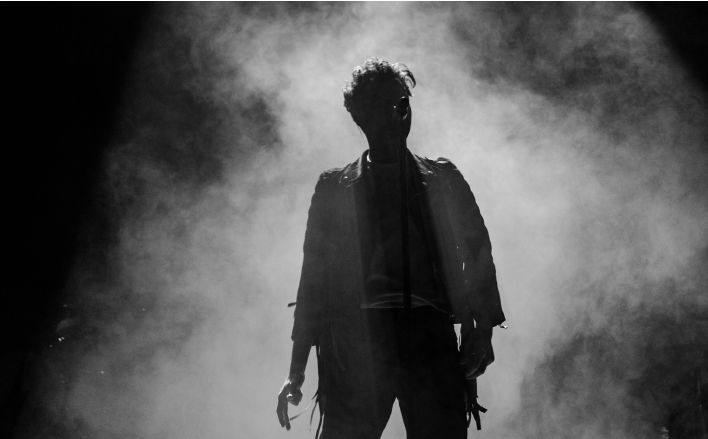
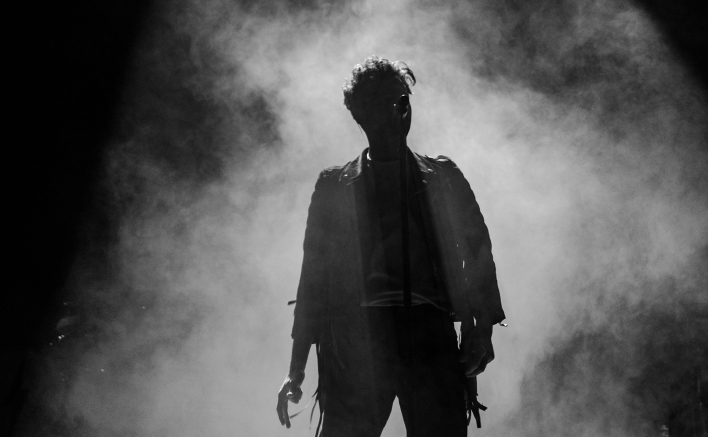
Adding an adaptive layout for the About block

diff --git a/src/styles/blocks/about.less b/src/styles/blocks/about.less
@@ -17,11 +17,7 @@
       font-size: 34px;
     }
 
-    @media @bw920 {
-      font-size: 30px;
-    }
-
-    @media @bw800 {
+    @media @bw960 {
       font-size: 26px;
     }
 
@@ -40,16 +36,16 @@
     width: 100%;
     font-size: 18px;
 
-    @media @bw800 {
+    @media @bw960 {
       font-size: 16px;
     }
 
     &--mt50 {
       margin-top: 50px;
-      max-width: 64.993%;
+      max-width: 867px;
 
       @media @bw1660 {
-        max-width: 827px;
+       max-width: 65.635%;
       }
 
       @media @bw1340 {
@@ -69,46 +65,46 @@
         margin-bottom: 88px;
       }
 
-      @media @bw1020 {
+      @media @bw960 {
+        //width: 280px;
         width: 39.548%;
       }
 
       @media @bw768 {
         margin-bottom: 30px;
       }
+
+      @media @bw650 {
+        width: 100%;
+      }
     }
   }
 
   &__second-block {
     display: grid;
-    grid-template-columns: 467px auto 60px 30.285%;
+    grid-template-columns: 35% 30.217% auto 30.285%;
     grid-template-rows: auto auto 100px auto 50px auto;
     margin: 100px 0 110px 0;
 
     @media @bw1660 {
-      grid-template-columns: 433px auto 39px 31.19%;
+      grid-template-columns: 34.365% 31.349% auto 31.19%;
       grid-template-rows: auto auto 100px auto 94px auto;
       margin-bottom: 87px;
     }
 
     @media @bw1340 {
+      grid-template-columns: 10% 55.707% auto 31.19%;
       margin: 80px 0 52px 0;
     }
 
-    @media @bw1100 {
-      grid-template-columns: 10% auto 39px 31.19%;
-      grid-template-rows: auto auto 52px auto 52px auto;
-    }
-
-    @media @bw800 {
-      grid-template-columns: auto 27px 37%;
-      grid-template-rows: auto 52px 28px auto 41px auto;
+    @media @bw960 {
+      grid-template-columns: 59.182% auto 37%;
+      grid-template-rows: auto 52px 28px auto 41px auto 28px;
     }
 
     @media @bw720 {
-      grid-template-columns: auto;
-      grid-template-rows: auto 60px auto 32px auto 50px auto;
-      column-gap: 0;
+      grid-template-columns: auto 68.929%;
+      grid-template-rows: auto 60px auto 30px auto 50px auto;
       margin: 60px 0 50px 0;
     }
   }
@@ -117,9 +113,13 @@
     grid-row: 1 / span 2;
     grid-column: 1 / span 2;
 
-    @media @bw800 {
+    @media @bw960 {
       grid-row: 1;
       grid-column: 1 / span 3;
+    }
+
+    @media @bw720 {
+      grid-column: 1 / span 2;
     }
   }
 
@@ -144,15 +144,14 @@
       padding-bottom: 0;
     }
 
-    @media @bw800 {
+    @media @bw960 {
       grid-row: 3 / span 5;
       grid-column-start: 3;
     }
 
     @media @bw720 {
       grid-row: 7;
-      grid-column: 1;
-      padding-left: 31.071%;
+      grid-column: 2;
     }
   }
 
@@ -164,12 +163,13 @@
     grid-row-start: 4;
     grid-column: 1 / span 2;
 
-    @media @bw800 {
+    @media @bw960 {
       grid-column: 1;
     }
 
     @media @bw720 {
       grid-row: 3;
+      grid-column: 1 / span 2;
     }
   }
 
@@ -177,17 +177,14 @@
     grid-row-start: 6;
     grid-column: 2 / span 3;
 
-    @media @bw800 {
+    @media @bw960 {
       grid-column: 1;
       padding-left: 70px;
     }
 
-    @media @bw1100 {
-      grid-column: 2 / span 3;
-    }
-
     @media @bw720 {
       grid-row: 5;
+      grid-column: 1 / span 2;
       padding: 0;
     }
   }
@@ -196,9 +193,13 @@
     display: flex;
     justify-content: space-between;
 
-    @media @bw1020 {
+    @media @bw960 {
       flex-direction: column;
       gap: 80px;
+    }
+
+    @media @bw768 {
+      gap: 60px;
     }
   }
 
@@ -211,7 +212,7 @@
       width: 68.81%;
     }
 
-    @media @bw1020 {
+    @media @bw960 {
       width: 100%;
     }
 
@@ -238,27 +239,55 @@
       left: 38px;
       width: calc(100% - 46px);
     }
+
+    @media @bw960 {
+      top: 14px;
+      left: 29px;
+      width: calc(100% - 36px);
+    }
+
+    @media @bw650 {
+      top: 5px;
+      left: 11px;
+      width: calc(100% - 13px);
+    }
   }
 
   &__third-block-wrapper {
     display: flex;
     flex-direction: column;
-    align-self: flex-end;
+    justify-content: flex-end;
     width: 25.787%;
 
     @media @bw1660 {
       width: 28.016%;
     }
 
-    @media @bw1020 {
+    @media @bw960 {
       flex-direction: row;
       justify-content: space-between;
       width: 100%;
     }
 
-    @media @bw768 {
+    @media @bw650 {
       flex-direction: column;
-      justify-content: initial;
+      align-items: flex-end;
+    }
+  }
+
+  &__arrow-link {
+    @media @bw960 {
+      width: 37%;
+    }
+
+    @media @bw650 {
+      width: 280px;
+    }
+
+    .arrow-link__link {
+      @media @bw650 {
+        font-size: 14px;
+      }
     }
   }
 }

diff --git a/src/html/blocks/about.html b/src/html/blocks/about.html
@@ -14,7 +14,19 @@
     <div class="about__second-block">
       <div class="about__first-picture-area">
         <picture class="about__first-picture">
-          <!-- <source 
+          <source 
+            media="(max-width: 767px)"
+            type="image/webp" 
+            srcset="assets/images/about1_708w.webp">
+
+          <source media="(max-width: 767px)" srcset="assets/images/about1_708w.jpg">
+
+          <source 
+            media="(max-width: 949px)"
+            type="image/webp" 
+            srcset="assets/images/about1_870w.webp">
+
+          <source 
             media="(max-width: 1169px)"
             type="image/webp" 
             srcset="assets/images/about1_708w.webp">
@@ -22,11 +34,11 @@
           <source media="(max-width: 1169px)" srcset="assets/images/about1_708w.jpg">
 
           <source 
-            media="(max-width: 1659px)" 
+            media="(max-width: 1339px)" 
             type="image/webp" 
-            srcset="assets/images/about1_828w.webp">
+            srcset="assets/images/about1_826w.webp">
       
-          <source media="(max-width: 1659px)" srcset="assets/images/about1_828w.jpg"> -->
+          <source media="(max-width: 1339px)" srcset="assets/images/about1_826w.jpg">
 
           <source type="image/webp" srcset="assets/images/about1_870w.webp">
 
@@ -36,7 +48,35 @@
 
       <div class="about__second-picture-area">
         <picture class="about__second-picture">
-          <img class="about__img" src="assets/images/about2.jpg" alt="about2">
+          <source
+            media="(max-width: 449px)"
+            type="image/webp"
+            srcset="assets/images/about2_262w.webp">
+
+          <source media="(max-width: 449px)" srcset="assets/images/about2_262w.jpg">
+
+          <source
+            media="(max-width: 719px)"
+            type="image/webp"
+            srcset="assets/images/about2_404w.webp">
+
+          <source 
+            media="(max-width: 799px)"
+            type="image/webp" 
+            srcset="assets/images/about2_262w.webp">
+      
+          <source media="(max-width: 799px)" srcset="assets/images/about2_262w.jpg">
+
+          <source 
+            media="(max-width: 1339px)" 
+            type="image/webp" 
+            srcset="assets/images/about2_393w.webp">
+      
+          <source media="(max-width: 1339px)" srcset="assets/images/about2_393w.jpg">
+
+          <source type="image/webp" srcset="assets/images/about2_404w.webp">
+
+          <img class="about__img" src="assets/images/about2_404w.jpg" alt="about2">
         </picture>
       </div>
 
@@ -58,7 +98,23 @@
 
     <div class="about__third-block">
       <picture class="about__third-picture">
-        <img class="about__third-img" src="assets/images/about3.jpg" alt="about3">
+        <source 
+          media="(max-width: 1169px)"
+          type="image/webp" 
+          srcset="assets/images/about3_672w.webp">
+    
+        <source media="(max-width: 1169px)" srcset="assets/images/about3_672w.jpg">
+
+        <source 
+          media="(max-width: 1659px)" 
+          type="image/webp" 
+          srcset="assets/images/about3_821w.webp">
+    
+        <source media="(max-width: 1659px)" srcset="assets/images/about3_821w.jpg">
+
+        <source type="image/webp" srcset="assets/images/about3_872w.webp">
+
+        <img class="about__third-img" src="assets/images/about3_872w.jpg" alt="about3">
       </picture>
 
       <div class="about__third-block-wrapper">

diff --git a/src/styles/global/variables.less b/src/styles/global/variables.less
@@ -34,12 +34,6 @@
 @bw768: ~"(max-width: 767px)";
 @w768: ~"(min-width: 768px)";
 
-@bw800: ~"(max-width: 799px)";
-@w800: ~"(min-width: 800px)";
-
-@bw920: ~"(max-width: 919px)";
-@w920: ~"(min-width: 920px)";
-
 @bw960: ~"(max-width: 959px)";
 @w960: ~"(min-width: 960px)";
 
